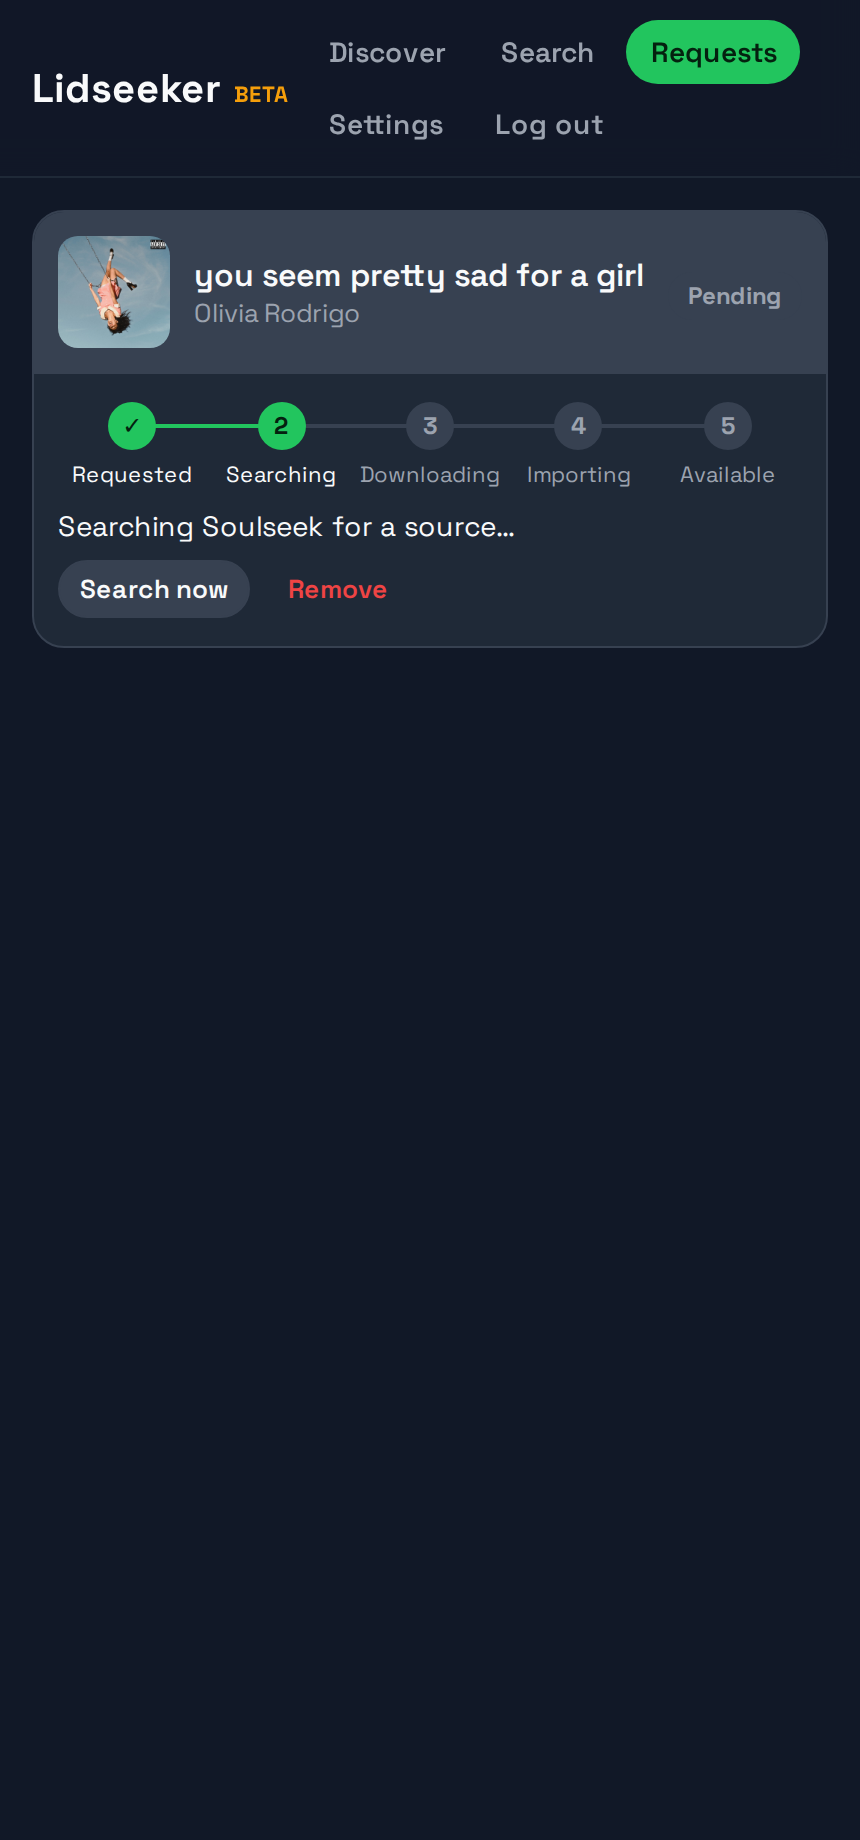
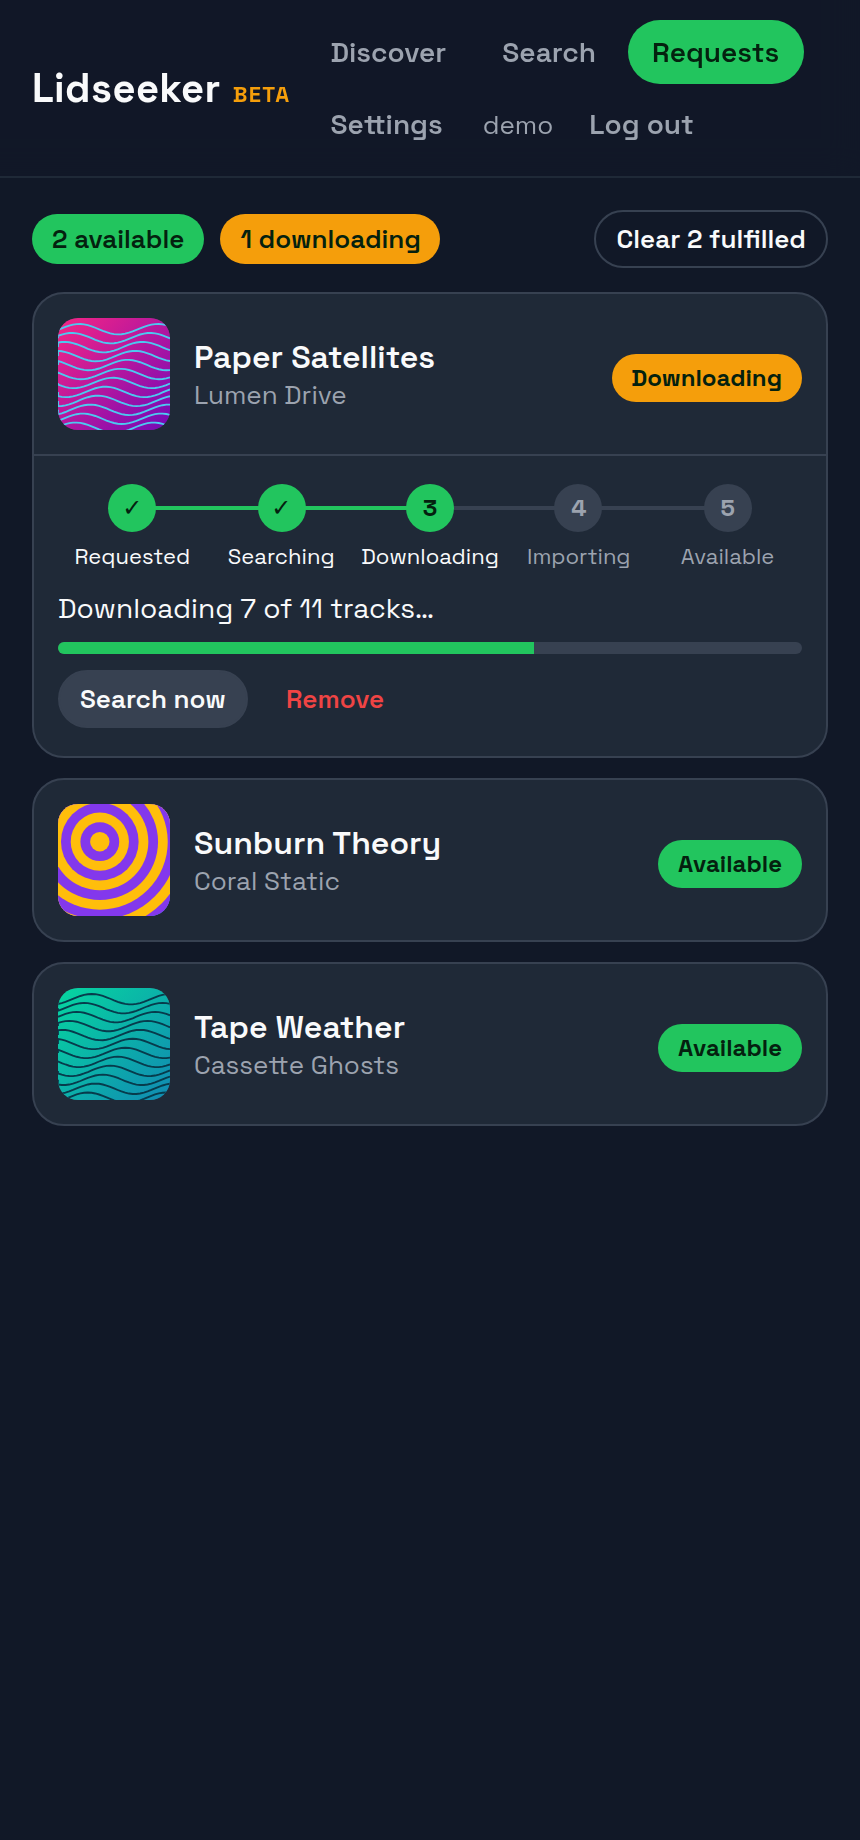
docs: re-capture README screenshots with dummy artists and albums
Discover, search, artist and requests screenshots showed real album artwork
and artist names. They are now captured from demo_server.py, a fake API with
invented artists/albums and generated SVG covers, via capture.py. Both are in
docs/screenshots so the shots can be regenerated.

Claude-Session: https://claude.ai/code/session_01HoHLGJdvCiJTR8LhB6KZ1R

diff --git a/docs/screenshots/demo_server.py b/docs/screenshots/demo_server.py
@@ -1,0 +1,176 @@
+#!/usr/bin/env python3
+"""Demo backend for README screenshots.
+
+Serves a built web UI (``backend/web/dist``) plus a fake ``/api`` filled with
+invented artists and albums and procedurally generated SVG cover art, so the
+screenshots never show real artwork or real artist names.
+
+    python3 docs/screenshots/demo_server.py path/to/web/dist [port]
+
+Then run ``capture.py`` against it. No Lidarr, network or database needed.
+"""
+import hashlib
+import json
+import math
+import os
+import sys
+from http.server import SimpleHTTPRequestHandler, ThreadingHTTPServer
+from urllib.parse import parse_qs, unquote, urlparse
+
+DIST = os.path.abspath(sys.argv[1] if len(sys.argv) > 1 else "backend/web/dist")
+PORT = int(sys.argv[2] if len(sys.argv) > 2 else 5199)
+
+# ---------------------------------------------------------------- fake catalogue
+ARTISTS = {
+    "lumen-drive": ("Lumen Drive", [
+        ("Night Bus Hymns", "Album", 2023, True), ("Afterglow FM", "Album", 2021, True),
+        ("Paper Satellites", "Album", 2018, False), ("Low Orbit", "Album", 2015, True),
+        ("Glasshouse Summer", "Album", 2012, True), ("Signal Bloom", "Album", 2010, True),
+        ("Tape Weather", "Album", 2007, True), ("Kite Season", "Album", 2004, True),
+        ("Lanterns", "EP", 2022, False), ("Soft Static", "Single", 2024, False),
+    ]),
+}
+DECADE_1990 = [
+    ("Sunburn Theory", "Coral Static", 1994), ("Velvet Underpass", "The Hollow Kings", 1997),
+    ("Midnight Mile", "Orla Finch", 1991), ("Mercury Tide", "Ivy Crane", 1995),
+    ("Chrome Orchard", "Glass Parade", 1999), ("Paper Moons", "Dusk Avenue", 1993),
+    ("Radio Saints", "Kid Ozone", 1998), ("Harbour Lights", "Ada Monroe", 1996),
+    ("Cold Brass", "Iron Meadow", 1992), ("Wire & Wool", "Fern Theory", 1990),
+]
+NEW = [
+    ("Neon Liturgy", "Coral Static", 2026), ("Holiday Rain", "Pale Atlas", 2026),
+    ("Hologram Heart", "Static Doves", 2026), ("Slow Comets", "Orla Finch", 2026),
+    ("Rooftop Theory", "Kid Ozone", 2025), ("Blue Hour Club", "Saint Marlowe", 2025),
+    ("Motorway Prayers", "The Lantern Rooms", 2025), ("Sugar Radio", "Polly Kestrel", 2025),
+]
+
+def fid(*parts):
+    return hashlib.md5("|".join(parts).encode()).hexdigest()[:12]
+
+def album(title, artist, year, kind="Album", in_lib=False, requested=False):
+    return {"type": "album", "foreignId": fid(artist, title), "title": title, "artist": artist,
+            "year": year, "albumType": kind, "imageUrl": f"/covers/{fid(artist, title)}.svg",
+            "inLibrary": in_lib, "requested": requested, "artistForeignId": "lumen-drive" if artist == "Lumen Drive" else fid(artist)}
+
+def artist_albums(slug):
+    name, rows = ARTISTS.get(slug, ARTISTS["lumen-drive"])
+    return [album(t, name, y, k, lib) for t, k, y, lib in rows]
+
+def pipeline(stage, percent, detail, files=0, count=0):
+    stages = ["requested", "searching", "downloading", "importing", "available"]
+    return {"stage": stage, "stageIndex": stages.index(stage), "stages": stages, "percent": percent,
+            "trackFiles": files, "trackCount": count, "detail": detail, "failed": False, "stuck": False}
+
+REQUESTS = [
+    {"id": 3, "type": "album", "foreignId": fid("Lumen Drive", "Paper Satellites"), "title": "Paper Satellites",
+     "artist": "Lumen Drive", "imageUrl": f"/covers/{fid('Lumen Drive', 'Paper Satellites')}.svg", "status": "downloading",
+     "createdAt": "2026-11-20T09:12:00Z", "pipeline": pipeline("downloading", 64, "Downloading 7 of 11 tracks…", 7, 11)},
+    {"id": 2, "type": "album", "foreignId": fid("Coral Static", "Sunburn Theory"), "title": "Sunburn Theory",
+     "artist": "Coral Static", "imageUrl": f"/covers/{fid('Coral Static', 'Sunburn Theory')}.svg", "status": "available",
+     "createdAt": "2026-11-19T18:40:00Z", "pipeline": pipeline("available", 100, "In your library.", 12, 12)},
+    {"id": 1, "type": "album", "foreignId": fid("Cassette Ghosts", "Tape Weather"), "title": "Tape Weather",
+     "artist": "Cassette Ghosts", "imageUrl": f"/covers/{fid('Cassette Ghosts', 'Tape Weather')}.svg", "status": "available",
+     "createdAt": "2026-11-18T21:05:00Z", "pipeline": pipeline("available", 100, "In your library.", 10, 10)},
+]
+
+# ---------------------------------------------------------------- generated covers
+PALETTES = [("#ff6b6b", "#ffd93d", "#2b2d42"), ("#7bdff2", "#2a3b8f", "#f2f7ff"), ("#f72585", "#7209b7", "#4cc9f0"),
+            ("#06d6a0", "#118ab2", "#073b4c"), ("#ff9f1c", "#2ec4b6", "#011627"), ("#e63946", "#1d3557", "#f1faee"),
+            ("#cdb4db", "#ffafcc", "#3d2c4f"), ("#ffbe0b", "#fb5607", "#3a0ca3"), ("#8338ec", "#3a86ff", "#ffbe0b"),
+            ("#00f5d4", "#9b5de5", "#f15bb5"), ("#f4a261", "#264653", "#e9c46a"), ("#a2d2ff", "#023047", "#fb8500")]
+
+def cover_svg(key):
+    h = int(hashlib.md5(key.encode()).hexdigest(), 16)
+    a, b, c = PALETTES[int(hashlib.sha1(key.encode()).hexdigest(), 16) % len(PALETTES)]
+    style = int(hashlib.sha256(key.encode()).hexdigest(), 16) % 5
+    r = lambda n: ((h >> (n * 3)) % 1000) / 1000
+    body = ""
+    if style == 0:  # sunset
+        body = f'<circle cx="150" cy="170" r="80" fill="{c}"/>' + "".join(
+            f'<rect x="0" y="{170 + i * 14}" width="300" height="{7 - i * .7:.1f}" fill="{b}"/>' for i in range(8))
+    elif style == 1:  # rings
+        body = "".join(f'<circle cx="{80 + r(1) * 140:.0f}" cy="{80 + r(2) * 140:.0f}" r="{k * 26}" fill="{c if k % 2 else a}"/>'
+                       for k in range(10, 0, -1))
+    elif style == 2:  # dots
+        body = "".join(f'<circle cx="{19 + x * 37}" cy="{19 + y * 37}" r="{4 + 11 * abs(math.sin(x * .7 + y * .5 + h % 7)):.1f}" fill="{c}"/>'
+                       for x in range(8) for y in range(8))
+    elif style == 3:  # stripes
+        body = f'<g transform="rotate({int(r(3) * 180)} 150 150)">' + "".join(
+            f'<rect x="{k * 34}" y="-150" width="17" height="600" fill="{c}"/>' for k in range(-6, 12)) + "</g>"
+    else:  # waves
+        body = "".join('<path d="M0 {0} '.format(30 + k * 24) + " ".join(
+            f"L{x} {30 + k * 24 + 14 * math.sin(x * .03 + k * .6 + h % 5):.1f}" for x in range(0, 301, 10))
+            + f'" stroke="{c}" stroke-width="5" fill="none"/>' for k in range(12))
+    return (f'<svg xmlns="http://www.w3.org/2000/svg" viewBox="0 0 300 300"><defs><linearGradient id="g" x1="0" y1="0" x2="1" y2="1">'
+            f'<stop offset="0" stop-color="{a}"/><stop offset="1" stop-color="{b}"/></linearGradient>'
+            f'<clipPath id="k"><rect width="300" height="300"/></clipPath></defs>'
+            f'<g clip-path="url(#k)"><rect width="300" height="300" fill="url(#g)"/>{body}</g></svg>')
+
+# ---------------------------------------------------------------- server
+class Handler(SimpleHTTPRequestHandler):
+    def __init__(self, *a, **kw):
+        super().__init__(*a, directory=DIST, **kw)
+
+    def log_message(self, *a):
+        pass
+
+    def send_json(self, obj, code=200):
+        data = json.dumps(obj).encode()
+        self.send_response(code)
+        self.send_header("Content-Type", "application/json")
+        self.send_header("Content-Length", str(len(data)))
+        self.end_headers()
+        self.wfile.write(data)
+
+    def api(self, method):
+        u = urlparse(self.path)
+        p, q = u.path[4:], {k: v[0] for k, v in parse_qs(u.query).items()}
+        if p == "/auth/login":
+            return self.send_json({"token": "demo"})
+        if p == "/me":
+            return self.send_json({"username": "demo", "role": "user"})
+        if p == "/discover/categories":
+            return self.send_json({"genres": [], "decades": [2020, 2010, 2000, 1990, 1980, 1970]})
+        if p == "/discover":
+            rows = DECADE_1990 if q.get("decade") == "1990" else NEW
+            return self.send_json([album(t, a, y) for t, a, y in rows])
+        if p == "/search":
+            return self.send_json(artist_albums("lumen-drive")[:8])
+        if p.startswith("/artist/") and p.endswith("/albums"):
+            return self.send_json(artist_albums(unquote(p.split("/")[2])))
+        if p == "/requests":
+            return self.send_json(REQUESTS)
+        if p == "/stats":
+            return self.send_json({"total": 3, "available": 2, "pending": 0, "downloading": 1, "failed": 0})
+        if p == "/services":
+            return self.send_json([])
+        if p == "/settings":
+            return self.send_json({"quality": None, "ntfyTopic": None, "ntfyUrl": None})
+        if method != "GET":
+            return self.send_json({"ok": True})
+        return self.send_json([])
+
+    def do_GET(self):
+        path = urlparse(self.path).path
+        if path.startswith("/api/"):
+            return self.api("GET")
+        if path.startswith("/covers/"):
+            data = cover_svg(path).encode()
+            self.send_response(200)
+            self.send_header("Content-Type", "image/svg+xml")
+            self.send_header("Content-Length", str(len(data)))
+            self.end_headers()
+            return self.wfile.write(data)
+        if not os.path.exists(os.path.join(DIST, path.lstrip("/"))) or path == "/":
+            self.path = "/index.html"  # SPA fallback
+        return super().do_GET()
+
+    def do_POST(self):
+        return self.api("POST")
+
+    do_PUT = do_DELETE = do_POST
+
+
+if __name__ == "__main__":
+    print(f"demo server on http://127.0.0.1:{PORT}  (dist: {DIST})", flush=True)
+    ThreadingHTTPServer(("127.0.0.1", PORT), Handler).serve_forever()

diff --git a/docs/screenshots/capture.py b/docs/screenshots/capture.py
@@ -1,0 +1,63 @@
+#!/usr/bin/env python3
+"""Capture the README screenshots from demo_server.py with headless Chromium.
+
+    python3 docs/screenshots/demo_server.py backend/web/dist 5199 &
+    CHROME=/path/to/chrome python3 docs/screenshots/capture.py http://127.0.0.1:5199
+
+Needs the ``websocket-client`` package. Writes discover/search/artist/requests.png
+next to this file (430x920 viewport at 2x = 860x1840, matching the others).
+"""
+import base64, json, os, subprocess, sys, time, urllib.request
+import websocket
+
+BASE = sys.argv[1] if len(sys.argv) > 1 else "http://127.0.0.1:5199"
+OUT = os.path.dirname(os.path.abspath(__file__))
+CHROME = os.environ.get("CHROME", "chromium")
+PORT = 9334
+
+proc = subprocess.Popen([CHROME, "--headless=new", "--no-sandbox", "--hide-scrollbars", f"--remote-debugging-port={PORT}",
+                         "--remote-allow-origins=*", "about:blank"], stdout=subprocess.DEVNULL, stderr=subprocess.DEVNULL)
+for _ in range(100):
+    try:
+        tabs = json.load(urllib.request.urlopen(f"http://127.0.0.1:{PORT}/json")); break
+    except Exception:
+        time.sleep(.1)
+ws = websocket.create_connection([t for t in tabs if t["type"] == "page"][0]["webSocketDebuggerUrl"], max_size=None)
+n = 0
+def cdp(method, **params):
+    global n; n += 1; ws.send(json.dumps({"id": n, "method": method, "params": params}))
+    while True:
+        m = json.loads(ws.recv())
+        if m.get("id") == n:
+            return m.get("result", {})
+def js(expr):
+    return cdp("Runtime.evaluate", expression=expr, returnByValue=True, awaitPromise=True).get("result", {}).get("value")
+def go(path, settle=1.5):
+    cdp("Page.navigate", url=BASE + path); time.sleep(settle)
+def shot(name):
+    js("document.fonts.ready.then(() => new Promise(r => setTimeout(r, 400)))")
+    data = cdp("Page.captureScreenshot", format="png")["data"]
+    open(os.path.join(OUT, name), "wb").write(base64.b64decode(data)); print("wrote", name)
+
+try:
+    cdp("Emulation.setDeviceMetricsOverride", width=430, height=920, deviceScaleFactor=2, mobile=True)
+    cdp("Emulation.setEmulatedMedia", features=[{"name": "prefers-color-scheme", "value": "dark"}])
+    go("/login", 1)
+    js("localStorage.setItem('lidseeker_token', 'demo')")
+
+    go("/?decade=1990"); shot("discover.png")
+
+    go("/search")
+    js("""(() => { const i = document.querySelector('input'); const set = Object.getOwnPropertyDescriptor(HTMLInputElement.prototype, 'value').set;
+        set.call(i, 'lumen drive'); i.dispatchEvent(new Event('input', { bubbles: true }));
+        (i.form ? i.form.requestSubmit() : [...document.querySelectorAll('button')].find(b => b.textContent.trim() === 'Search').click()); })()""")
+    time.sleep(1.2); js("document.activeElement && document.activeElement.blur()"); shot("search.png")
+
+    go("/artist/lumen-drive?name=Lumen%20Drive"); shot("artist.png")
+
+    go("/requests")
+    js("""(() => { const el = [...document.querySelectorAll('*')].filter(e => e.children.length === 0 && e.textContent.trim() === 'Paper Satellites')[0];
+        (el.closest('button, [role=button], .row, .card, li') || el).click(); })()""")
+    time.sleep(.8); shot("requests.png")
+finally:
+    ws.close(); proc.terminate()
